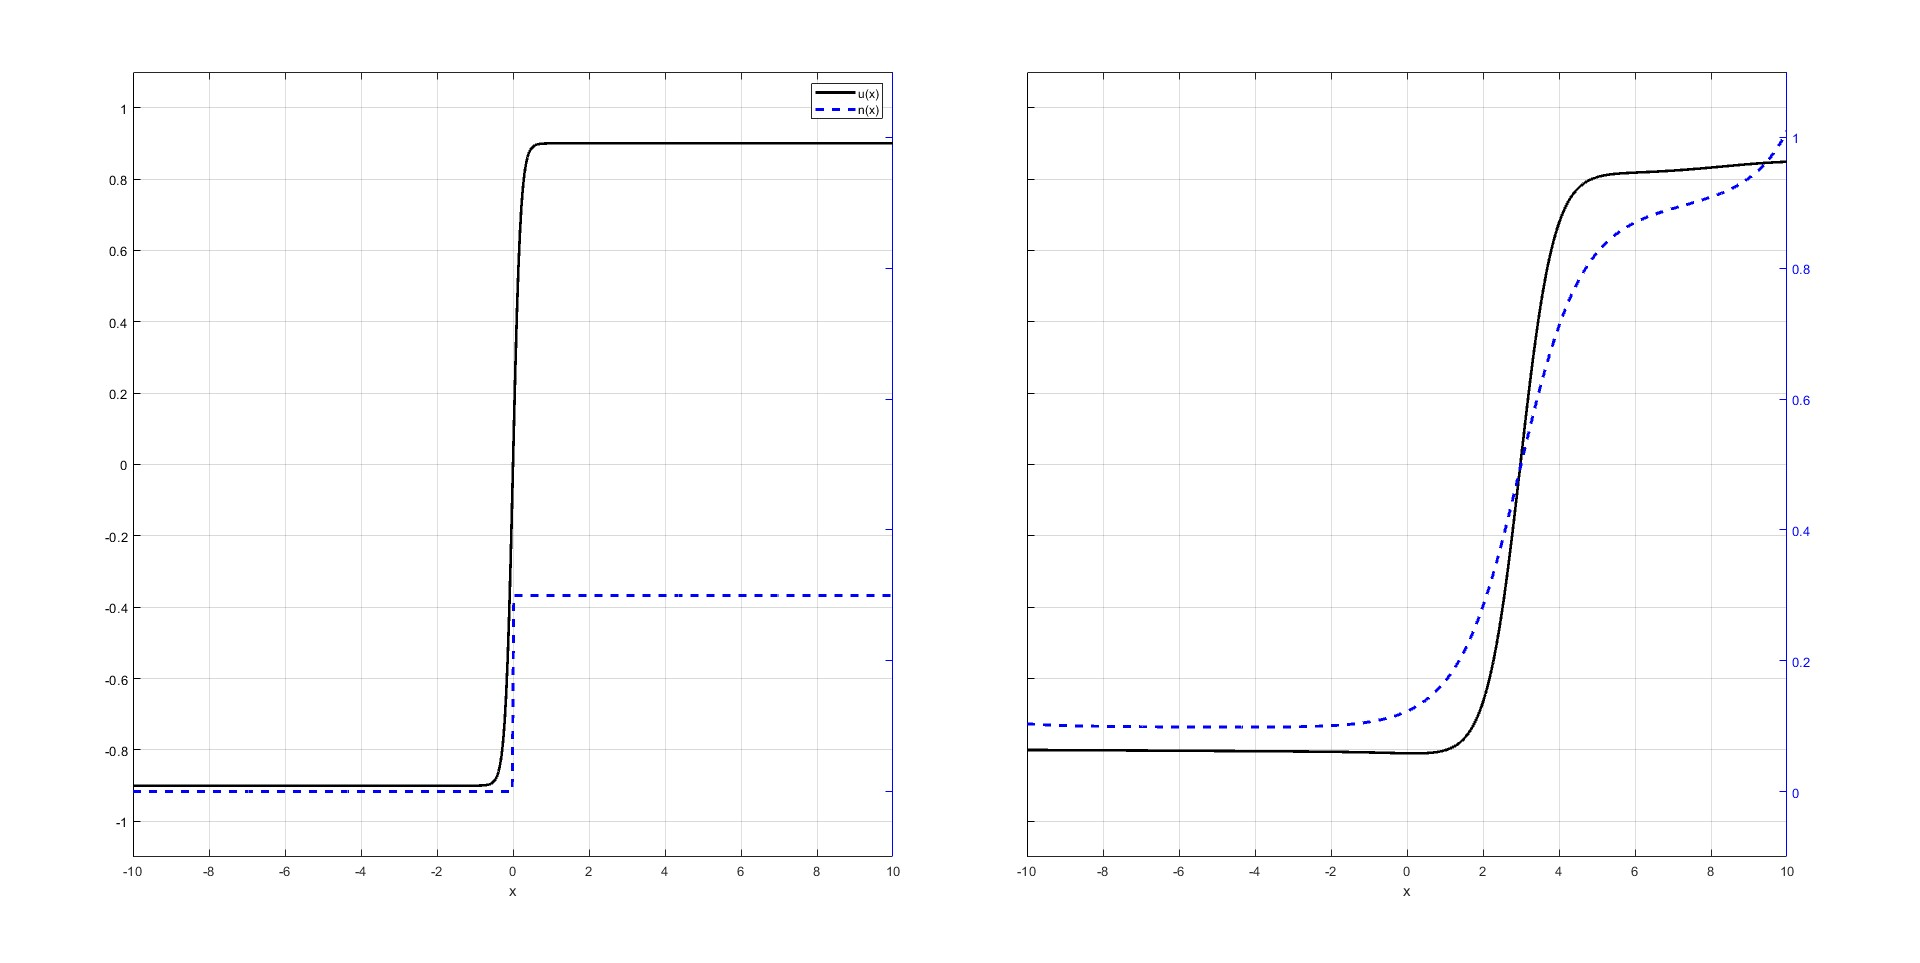
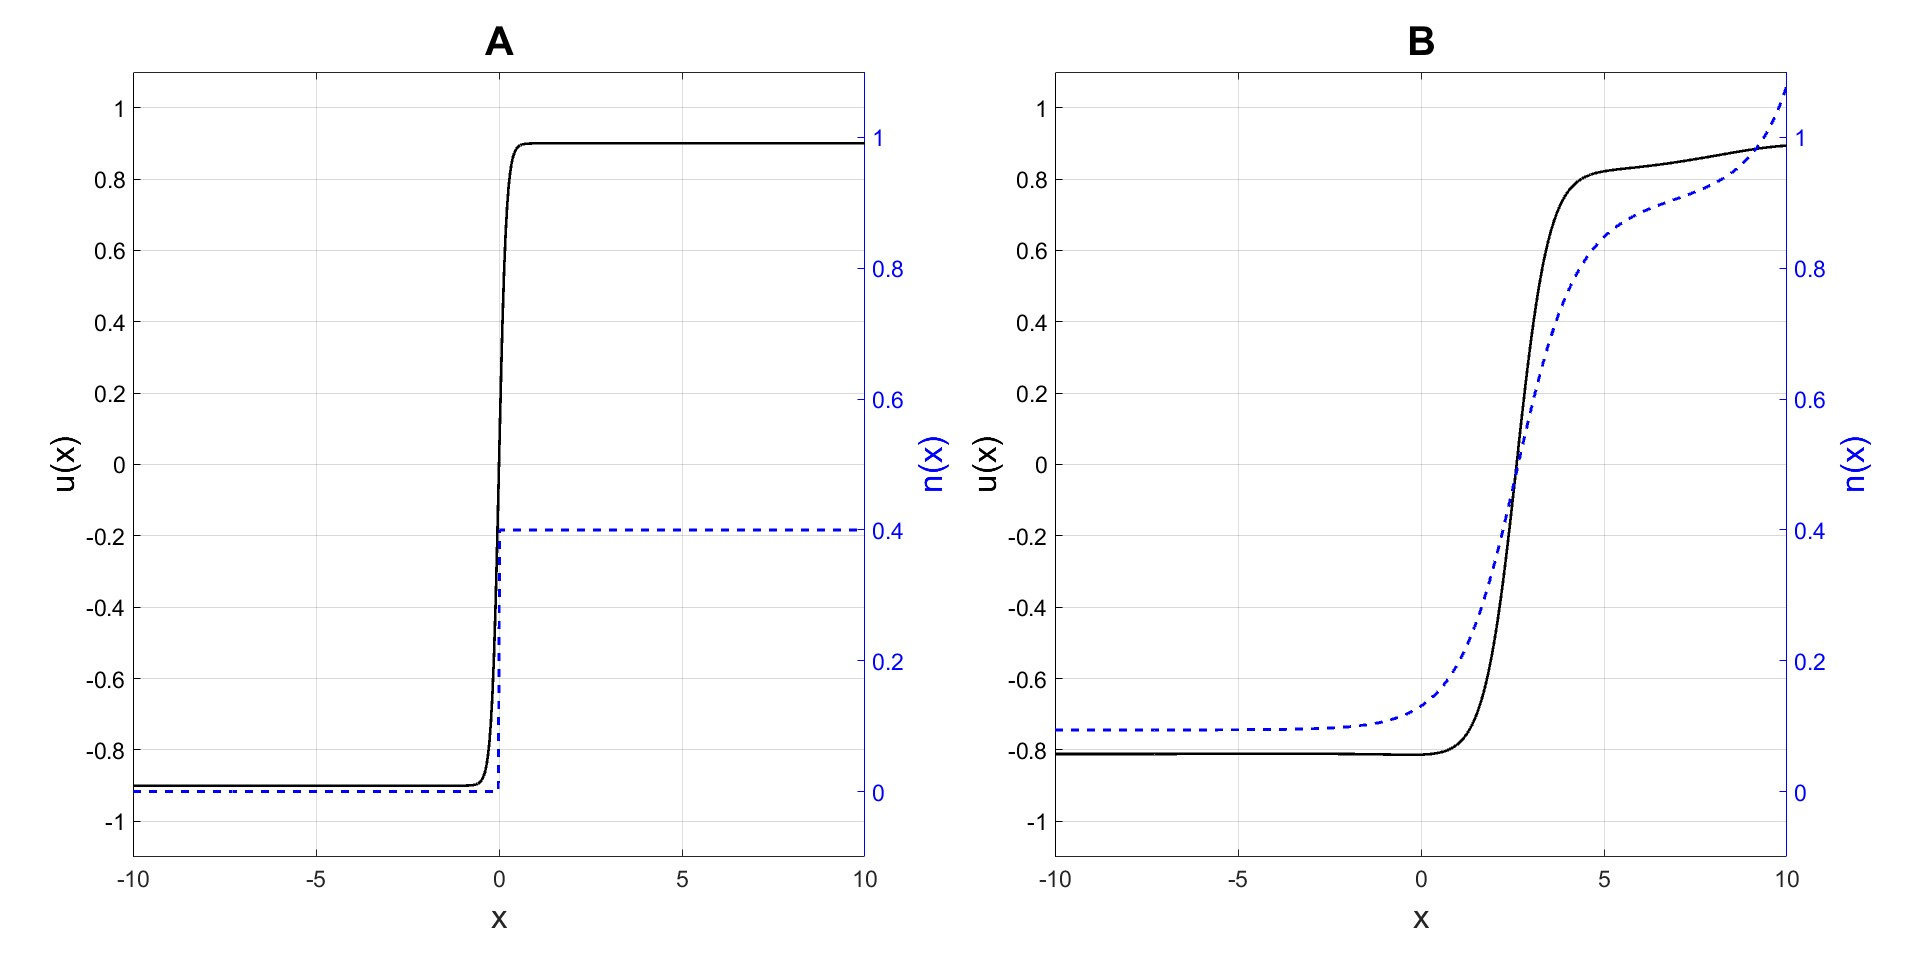
Addition of space-time plot

diff --git a/matlab/nickel/solution_input_flux.m b/matlab/nickel/solution_input_flux.m
@@ -3,7 +3,7 @@ N = 5000;
 M = 500;
 animate = false;
 
-t_max = 20000;
+t_max = 55000;
 x_max = 10;
 x_min = -10;
 
@@ -25,9 +25,9 @@ nickelfunc = @(x, t, u, dudx) expanded_nickelfunc(x, t, u, dudx, Du, Dn, alpha, 
 
 % IC - start with steady state
 phi_ic = @(x) -voltage*(2*x/(x_max-x_min-(x_max+x_min)/(x_max-x_min))); 
-n_ic = @(x) (x > 0.5)* 0.9 ;
-u_ic = @(x) 0.9*tanh(5*(x));
-psi_ic = @(x) -0.9*(50*tanh(5*(x)).*(sech(5*(x)).^2)); % Second derivitive of tanh(3x)
+n_ic = @(x) (x > 9)* 0.9 ;
+u_ic = @(x) 0.9*tanh(5*(x-9));
+psi_ic = @(x) -0.9*(50*tanh(5*(x-9)).*(sech(5*(x-9)).^2)); % Second derivitive of tanh(3x)
 
 %phi_ic = phi(end, :);
 %n_ic = n(end, :);
@@ -87,31 +87,63 @@ save("final_values", "phi_end", "n_end", "u_end", "psi_end")
 
 tiledlayout(1,2)
 colororder(["black", "blue"]);
-
+font_size = 25; 
 % Left plot
+
+
 ax1 = nexttile;
+ax1.FontSize = 17;
+
 yyaxis(ax1, 'left')
 plot(ax1, x, u(1,:), LineWidth=2, DisplayName="u(x)")
+ylabel("u(x)", FontSize=font_size)
 ylim(ax1, [-1.1, 1.1])
 grid(ax1, "on")
 
 yyaxis(ax1, 'right')
 plot(ax1, x, n(1, :), LineWidth=2.2, DisplayName = "n(x)", LineStyle="--")
+ylabel("n(x)", FontSize=font_size)
 ylim(ax1, [-0.1, 1.1])
-yticklabels(ax1, [])
-legend(ax1);
-xlabel(ax1, "x");
+xlabel(ax1, "x", FontSize=font_size);
+title("A", FontSize=font_size + 5)
 
 % Right plot
 ax2 = nexttile;
+ax2.FontSize = 17;
+
 yyaxis(ax2, 'left')
 plot(ax2, x, u(end,:), LineWidth=2, DisplayName="u(x)")
+ylabel("u(x)", FontSize=font_size)
 ylim(ax2, [-1.1, 1.1])
-yticklabels(ax2, [])
 grid(ax2, "on")
 
 yyaxis(ax2, 'right')
 plot(ax2, x, n(end, :), LineWidth=2.2, DisplayName = "n(x)", LineStyle="--")
+ylabel("n(x)", FontSize=font_size)
 ylim(ax2, [-0.1, 1.1])
-xlabel("x");
+xlabel("x", FontSize=font_size);
+title("B", FontSize=font_size + 5)
 
+
+%{
+
+% space-time plot
+
+u_normalized = (u+1)*0.5;
+u_reversed = flipud(u_normalized);
+figure()
+
+colormap cool
+imagesc(u_reversed)
+
+ax = gca;
+ax.FontSize = 17;
+ylabel("t_{[10^4 s]}", FontSize=25)
+xlabel("x", FontSize=25)
+
+xticks(0:M/10:M)
+xticklabels(-10:2:10)
+ytck = 0:N/5:N;
+yticks(ytck)
+yticklabels((t_max:-t_max/(length(ytck)-1):0)*10^(-4))
+%}

diff --git a/matlab/nickel/solution.m b/matlab/nickel/solution.m
@@ -68,31 +68,41 @@ end
 
 tiledlayout(1,2)
 colororder(["black", "blue"]);
-
+font_size = 25; 
 % Left plot
+
+
 ax1 = nexttile;
+ax1.FontSize = 17;
+
 yyaxis(ax1, 'left')
 plot(ax1, x, u(1,:), LineWidth=2, DisplayName="u(x)")
+ylabel("u(x)", FontSize=font_size)
 ylim(ax1, [-1.1, 1.1])
 grid(ax1, "on")
 
 yyaxis(ax1, 'right')
 plot(ax1, x, n(1, :), LineWidth=2.2, DisplayName = "n(x)", LineStyle="--")
+ylabel("n(x)", FontSize=font_size)
 ylim(ax1, [-0.1, 1.1])
-yticklabels(ax1, [])
-legend(ax1);
-xlabel(ax1, "x");
+xlabel(ax1, "x", FontSize=font_size);
+title("A", FontSize=font_size + 5)
 
 % Right plot
 ax2 = nexttile;
+ax2.FontSize = 17;
+
 yyaxis(ax2, 'left')
 plot(ax2, x, u(end,:), LineWidth=2, DisplayName="u(x)")
+ylabel("u(x)", FontSize=font_size)
 ylim(ax2, [-1.1, 1.1])
-yticklabels(ax2, [])
 grid(ax2, "on")
 
 yyaxis(ax2, 'right')
 plot(ax2, x, n(end, :), LineWidth=2.2, DisplayName = "n(x)", LineStyle="--")
+ylabel("n(x)", FontSize=font_size)
 ylim(ax2, [-0.1, 1.1])
-xlabel("x");
+xlabel("x", FontSize=font_size);
+title("B", FontSize=font_size + 5)
+
 

diff --git a/matlab/nickel/solution_output_flux.m b/matlab/nickel/solution_output_flux.m
@@ -3,7 +3,7 @@ N = 5000;
 M = 500;
 animate = false;
 
-t_max = 35000;
+t_max = 50000;
 x_max = 10;
 x_min = -10;
 
@@ -77,6 +77,7 @@ if (animate)
 end
 
 
+%{
 tiledlayout(1,2)
 colororder(["black", "blue"]);
 
@@ -106,4 +107,24 @@ yyaxis(ax2, 'right')
 plot(ax2, x, n(end, :), LineWidth=2.2, DisplayName = "n(x)", LineStyle="--")
 ylim(ax2, [-0.1, 1.1])
 xlabel("x");
+%}
 
+% space-time plot
+
+u_normalized = (u+1)*0.5;
+u_reversed = flipud(u_normalized);
+figure()
+
+colormap cool
+imagesc(u_reversed)
+
+ax = gca;
+ax.FontSize = 17;
+ylabel("t_{[10^4 s]}", FontSize=25)
+xlabel("x", FontSize=25)
+
+xticks(0:M/10:M)
+xticklabels(-10:2:10)
+ytck = 0:N/5:N;
+yticks(ytck)
+yticklabels((t_max:-t_max/(length(ytck)-1):0)*10^(-4))

diff --git a/matlab/nickel/expanded_pdebc.m b/matlab/nickel/expanded_pdebc.m
@@ -1,8 +1,8 @@
 function [pl, ql, pr, qr] = expanded_pdebc(xl, ul, xr, ur, t, voltage)
 % ul and ur are vactors of (phi, n, u, psi)
 
-pl = [ul(1)-voltage; 0; 0; ul(4)];
-ql = [0; 1; 1; 0];
+pl = [0; 0; 0; ul(4)];
+ql = [1; 1; 1; 0];
 
 pr = [ur(1)+voltage; 0; 0; ur(4)];
 qr = [0; 1; 1; 0];
